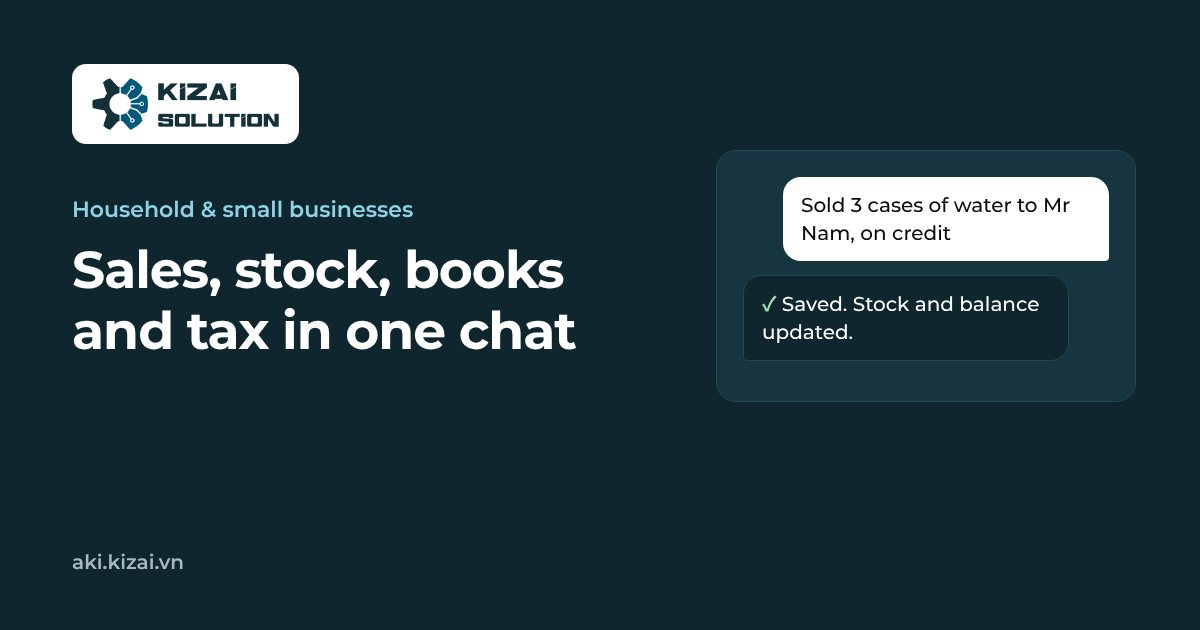
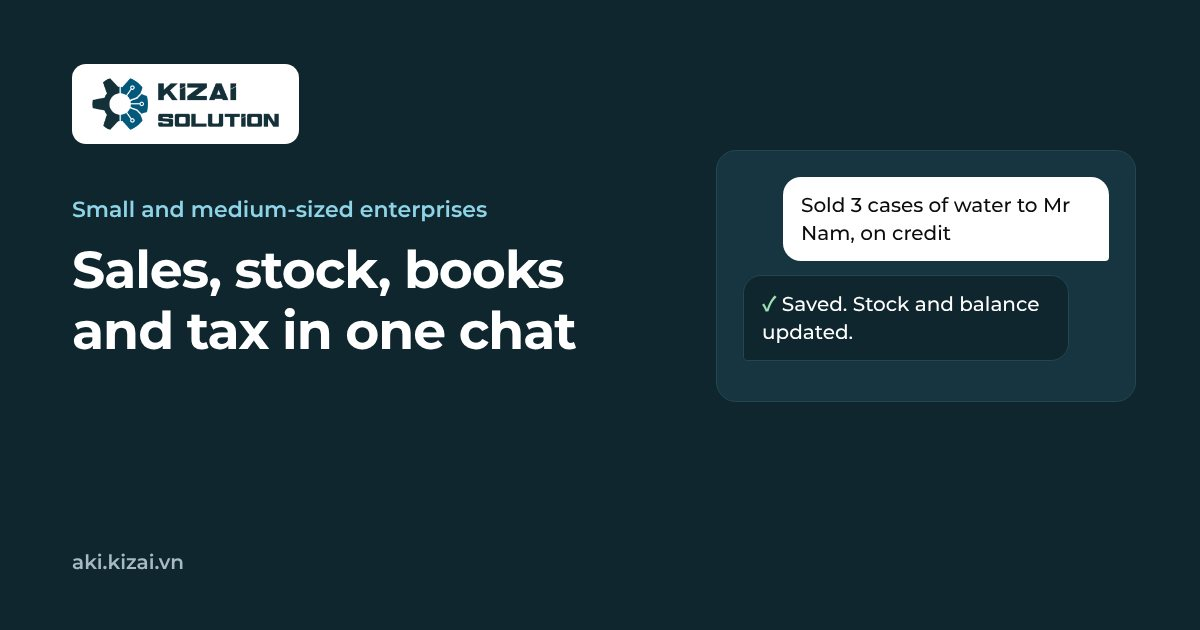
feat: retarget page to SMEs (/[locale]/doanh-nghiep-sme)
Claude-Session: https://claude.ai/code/session_01DjJstdf2PbC4y8FMKZ1xef

Changed region(s): [[0.0617, 0.3016, 0.4008, 0.3619]]

diff --git a/src/i18n/smb-content.ts b/src/i18n/smb-content.ts
@@ -1,12 +1,12 @@
 import type { Locale } from "./config";
 
 /**
- * Trang "Kizai AI cho hộ kinh doanh và doanh nghiệp nhỏ" (/[locale]/ho-kinh-doanh).
+ * Trang "Kizai AI cho doanh nghiệp vừa và nhỏ (SME)" (/[locale]/doanh-nghiep-sme).
  * Nội dung tự viết. Chỉ các việc anh Kiên xác nhận Kizai AI làm được (2026-11-12).
  * Không có giá, số liệu hiệu quả, tên khách hàng hay tên đối tác.
  */
 
-export const smbPath = "/ho-kinh-doanh";
+export const smbPath = "/doanh-nghiep-sme";
 
 export type SmbGroupId = "sales" | "purchase" | "stock" | "cash" | "tax" | "reports" | "grow";
 
@@ -49,14 +49,14 @@ export type SmbContent = {
 
 const vi: SmbContent = {
   seo: {
-    title: "Phần mềm AI bán hàng, kho, sổ sách và thuế cho hộ kinh doanh | Kizai AI",
+    title: "Phần mềm AI bán hàng, kho, kế toán và thuế cho doanh nghiệp SME | Kizai AI",
     description:
-      "Kizai AI ghi đơn bán, nhập hàng, kho, thu chi và lập tờ khai thuế hộ kinh doanh từ tin nhắn, giọng nói hoặc ảnh chụp. Sẵn sàng cho việc bỏ thuế khoán từ 2026.",
+      "Kizai AI cho doanh nghiệp vừa và nhỏ: ghi đơn bán, nhập hàng, kho, thu chi, hóa đơn điện tử và chuẩn bị số liệu thuế từ tin nhắn, giọng nói hoặc ảnh chụp.",
   },
-  nav: "Hộ kinh doanh",
-  breadcrumb: "Hộ kinh doanh & doanh nghiệp nhỏ",
+  nav: "Doanh nghiệp SME",
+  breadcrumb: "Doanh nghiệp vừa và nhỏ (SME)",
   hero: {
-    badge: "Kizai AI cho hộ kinh doanh và doanh nghiệp nhỏ",
+    badge: "Kizai AI cho doanh nghiệp vừa và nhỏ (SME)",
     h1: "Bán hàng, kho, sổ sách và thuế trong một khung chat",
     sub: "Nhắn một câu, nói một câu hoặc chụp một tấm ảnh. Kizai AI hiểu nghiệp vụ, hỏi lại cho chắc rồi mới ghi sổ. Anh chị lo buôn bán, phần giấy tờ để AI làm.",
     primary: "Đặt lịch demo",
@@ -72,16 +72,16 @@ const vi: SmbContent = {
     inputPlaceholder: "Nhắn cho Kizai AI…",
   },
   why: {
-    title: "Từ 2026, sổ sách không còn là việc làm cho có",
-    sub: "Hộ kinh doanh chuyển từ thuế khoán sang tự kê khai. Số liệu bán hàng hằng ngày trở thành căn cứ tính thuế.",
+    title: "Số liệu doanh nghiệp phải khớp từ đơn hàng đến tờ khai",
+    sub: "Quy định về hóa đơn và thuế ngày càng dựa trên dữ liệu thật. SME cần bán hàng, kho, quỹ và kế toán nói cùng một con số.",
     items: [
       {
-        title: "Bỏ thuế khoán",
-        text: "Theo Nghị quyết 68-NQ/TW, thuế khoán với hộ kinh doanh chấm dứt chậm nhất trong năm 2026.",
+        title: "Hộ kinh doanh lên doanh nghiệp",
+        text: "Nghị quyết 68-NQ/TW bỏ thuế khoán chậm nhất năm 2026 và khuyến khích hộ kinh doanh chuyển lên mô hình doanh nghiệp.",
       },
       {
-        title: "Kê khai theo doanh thu thật",
-        text: "Hộ kinh doanh tự kê khai, tự nộp. Doanh thu, chi phí và tồn kho cần ghi đầy đủ, khớp nhau.",
+        title: "Kê khai theo số liệu thật",
+        text: "Doanh thu, chi phí, công nợ và tồn kho phải ghi đầy đủ và khớp nhau để kê khai, quyết toán và làm việc với ngân hàng.",
       },
       {
         title: "Hóa đơn điện tử",
@@ -171,7 +171,7 @@ const vi: SmbContent = {
         id: "tax",
         label: "Cuối tháng và kỳ thuế",
         items: [
-          { title: "Sổ kế toán hộ kinh doanh", text: "Các mẫu sổ theo Thông tư 88/2021/TT-BTC được ghi dần mỗi ngày." },
+          { title: "Sổ sách ghi dần mỗi ngày", text: "Chứng từ bán, mua, kho, quỹ được ghi ngay khi phát sinh. Hộ kinh doanh có sẵn mẫu sổ theo Thông tư 88/2021/TT-BTC." },
           { title: "Tờ khai điền sẵn", text: "Số thuế tính theo doanh thu thực tế, anh chị kiểm tra và xác nhận." },
           { title: "Lịch thuế không bỏ lỡ", text: "Nhắc trước hạn khai và hạn nộp, kèm số tiền ước tính." },
           { title: "Lãi lỗ và dòng tiền", text: "So với tháng trước, xem lãi gộp từng món và tiền mặt còn lại." },
@@ -237,14 +237,14 @@ const vi: SmbContent = {
     items: [
       { q: "Có phải gõ lại toàn bộ danh sách hàng từ đầu không?", a: "Không. Gửi file Excel đang dùng, ảnh sổ ghi nợ hoặc vài hóa đơn gần đây, AI dựng danh mục hàng, khách, nhà cung cấp và số tồn ban đầu. Anh chị chỉ cần xem lại bản tóm tắt." },
       { q: "Tôi nói nhầm số lượng thì sao?", a: "Trước khi lưu, AI luôn đọc lại nội dung để anh chị kiểm tra. Đã lưu rồi vẫn sửa được, các sổ liên quan tự điều chỉnh theo." },
-      { q: "Kizai AI giúp gì khi bỏ thuế khoán?", a: "Sổ kế toán hộ kinh doanh theo Thông tư 88/2021/TT-BTC được ghi từ giao dịch thật mỗi ngày, tờ khai được điền sẵn từ chính số liệu đó, hóa đơn điện tử xuất ngay khi bán." },
+      { q: "Kizai AI giúp gì cho phần thuế?", a: "Hóa đơn điện tử xuất ngay khi bán, chứng từ được ghi từ giao dịch thật mỗi ngày, tờ khai được điền sẵn từ chính số liệu đó để anh chị hoặc kế toán kiểm tra. Hộ kinh doanh đang chuyển lên doanh nghiệp có sẵn mẫu sổ theo Thông tư 88/2021/TT-BTC." },
       { q: "Ai xem được số liệu của cửa hàng tôi?", a: "Dữ liệu thuộc về anh chị và chỉ dùng để phục vụ cửa hàng của anh chị. Kizai không bán dữ liệu cho bên thứ ba." },
       { q: "Khi mở thêm chi nhánh hoặc lên công ty thì sao?", a: "Nhiều điểm bán dùng chung một sổ. Khi cần nhân sự, mua hàng hay ERP đầy đủ, dữ liệu được nối tiếp sang các giải pháp KIZAI HRM, PMS, RPA và ERP." },
       { q: "Chi phí thế nào?", a: "Tùy quy mô và ngành. Để lại thông tin ở cuối trang, Kizai sẽ tư vấn gói phù hợp." },
     ],
   },
   homeBand: {
-    title: "Kizai AI cho hộ kinh doanh và doanh nghiệp nhỏ",
+    title: "Kizai AI cho doanh nghiệp vừa và nhỏ (SME)",
     text: "Bán hàng, kho, thu chi, hóa đơn điện tử và tờ khai thuế qua tin nhắn, giọng nói hoặc ảnh chụp.",
     link: "Xem giải pháp",
   },
@@ -252,14 +252,14 @@ const vi: SmbContent = {
 
 const ja: SmbContent = {
   seo: {
-    title: "個人事業主・小規模事業者向けAI：販売・在庫・帳簿・税務｜Kizai AI",
+    title: "中小企業（SME）向けAI：販売・在庫・会計・税務｜Kizai AI",
     description:
-      "Kizai AIはメッセージ、音声、写真から販売、仕入、在庫、入出金を記帳し、ベトナムの個人事業世帯向け税務申告書を作成します。2026年の定額課税廃止に対応。",
+      "中小企業向けKizai AI：メッセージ、音声、写真から販売、仕入、在庫、入出金、電子インボイスを処理し、税務用のデータを準備します。",
   },
-  nav: "個人事業主",
-  breadcrumb: "個人事業主・小規模事業者",
+  nav: "中小企業",
+  breadcrumb: "中小企業（SME）",
   hero: {
-    badge: "個人事業主・小規模事業者向けKizai AI",
+    badge: "中小企業（SME）向けKizai AI",
     h1: "販売、在庫、帳簿、税務をひとつのチャットで",
     sub: "メッセージを送る、話しかける、写真を撮る。Kizai AIが業務を理解し、内容を確認してから記帳します。お客様は商売に集中できます。",
     primary: "デモを予約",
@@ -275,11 +275,11 @@ const ja: SmbContent = {
     inputPlaceholder: "Kizai AIにメッセージ…",
   },
   why: {
-    title: "2026年、帳簿は「形だけ」では済まなくなる",
-    sub: "ベトナムの個人事業世帯は定額課税から自己申告へ移行します。日々の販売データが課税の根拠になります。",
+    title: "注文から申告書まで、数字が一致していること",
+    sub: "ベトナムのインボイスと税務の規定は、実際のデータに基づくものへと移っています。販売、在庫、資金、会計が同じ数字を示す必要があります。",
     items: [
-      { title: "定額課税の廃止", text: "決議68-NQ/TWにより、個人事業世帯への定額課税は遅くとも2026年中に廃止されます。" },
-      { title: "実際の売上で申告", text: "事業者が自ら申告・納付します。売上、費用、在庫を正しく記録し、整合させる必要があります。" },
+      { title: "個人事業から企業へ", text: "決議68-NQ/TWは遅くとも2026年に定額課税を廃止し、個人事業世帯の法人化を後押ししています。" },
+      { title: "実際の数字で申告", text: "売上、費用、債権債務、在庫を漏れなく整合させ、申告、決算、金融機関との取引に備える必要があります。" },
       { title: "電子インボイス", text: "販売時に規格に沿った電子インボイスを発行し、税務当局へデータを送信します。" },
     ],
     note: "規定は今後さらに細則が出る可能性があります。Kizaiは新しい通達に合わせて計算方法と様式を更新します。",
@@ -365,7 +365,7 @@ const ja: SmbContent = {
         id: "tax",
         label: "月末・申告時期",
         items: [
-          { title: "個人事業世帯の会計帳簿", text: "通達88/2021/TT-BTCの様式で毎日少しずつ記帳。" },
+          { title: "毎日少しずつ記帳", text: "販売、仕入、在庫、資金の証憑を発生時に記録。個人事業世帯には通達88/2021/TT-BTCの様式も用意。" },
           { title: "記入済みの申告書", text: "実際の売上から税額を計算。確認して承認するだけ。" },
           { title: "税務カレンダー", text: "申告・納付期限の前に、見込み税額とともに通知。" },
           { title: "損益と資金繰り", text: "前月比、商品別粗利、手元資金を確認。" },
@@ -431,14 +431,14 @@ const ja: SmbContent = {
     items: [
       { q: "商品リストを最初から入力し直す必要がありますか？", a: "いいえ。使用中のExcel、掛け帳の写真、最近の請求書を送ると、AIが商品、顧客、仕入先、初期在庫を作成します。要約を確認するだけです。" },
       { q: "数量を言い間違えたら？", a: "保存前にAIが必ず内容を読み上げます。保存後も修正でき、関連する帳簿は自動で調整されます。" },
-      { q: "定額課税の廃止にどう役立ちますか？", a: "通達88/2021/TT-BTCに沿った帳簿を実際の取引から毎日記帳し、そのデータで申告書を作成。販売時には電子インボイスを発行します。" },
+      { q: "税務ではどう役立ちますか？", a: "販売時に電子インボイスを発行し、実際の取引から毎日証憑を記録、そのデータで申告書を下書きしてご本人または会計担当が確認します。法人化する個人事業世帯向けに通達88/2021/TT-BTCの様式もあります。" },
       { q: "店の数字は誰が見られますか？", a: "データはお客様のものであり、お客様の事業のためだけに使われます。Kizaiが第三者にデータを販売することはありません。" },
       { q: "支店を増やしたり法人化したら？", a: "複数店舗でひとつの帳簿を共有できます。人事、購買、ERPが必要になれば、KIZAI HRM、PMS、RPA、ERPへデータを引き継げます。" },
       { q: "費用は？", a: "規模と業種によって異なります。ページ下部からお問い合わせいただければ、最適なプランをご案内します。" },
     ],
   },
   homeBand: {
-    title: "個人事業主・小規模事業者向けKizai AI",
+    title: "中小企業（SME）向けKizai AI",
     text: "販売、在庫、入出金、電子インボイス、税務申告をメッセージ・音声・写真で。",
     link: "詳しく見る",
   },
@@ -446,14 +446,14 @@ const ja: SmbContent = {
 
 const en: SmbContent = {
   seo: {
-    title: "AI Sales, Inventory, Bookkeeping and Tax for Small Businesses | Kizai AI",
+    title: "AI Sales, Inventory, Accounting and Tax for SMEs | Kizai AI",
     description:
-      "Kizai AI records sales, purchases, stock and cash from a message, a voice note or a photo, and prepares Vietnamese household-business tax returns. Ready for the end of presumptive tax in 2026.",
+      "Kizai AI for small and medium-sized enterprises: sales, purchasing, stock, cash, e-invoices and tax-ready figures from a message, a voice note or a photo.",
   },
-  nav: "Small business",
-  breadcrumb: "Household & small businesses",
+  nav: "SMEs",
+  breadcrumb: "Small and medium-sized enterprises (SMEs)",
   hero: {
-    badge: "Kizai AI for household and small businesses",
+    badge: "Kizai AI for SMEs",
     h1: "Sales, stock, books and tax in one chat",
     sub: "Send a message, say it out loud or snap a photo. Kizai AI understands the transaction, checks with you, then records it. You run the shop; the AI keeps the books.",
     primary: "Book a demo",
@@ -469,11 +469,11 @@ const en: SmbContent = {
     inputPlaceholder: "Message Kizai AI…",
   },
   why: {
-    title: "From 2026, the books have to be real",
-    sub: "Vietnamese household businesses move from presumptive tax to self-declaration. Daily sales records become the basis for tax.",
+    title: "Figures that match from order to tax return",
+    sub: "Vietnam's invoice and tax rules increasingly rely on real data. Sales, stock, cash and accounting need to show the same numbers.",
     items: [
-      { title: "Presumptive tax ends", text: "Under Resolution 68-NQ/TW, presumptive (lump-sum) tax for household businesses ends no later than 2026." },
-      { title: "Declare actual revenue", text: "Businesses declare and pay on their own. Revenue, costs and stock must be complete and consistent." },
+      { title: "From household business to company", text: "Resolution 68-NQ/TW ends presumptive tax by 2026 at the latest and encourages household businesses to become companies." },
+      { title: "Declare from real figures", text: "Revenue, costs, receivables, payables and stock must be complete and consistent for filing, year-end and dealing with banks." },
       { title: "E-invoices", text: "Sales need compliant e-invoices, with data sent to the tax authority." },
     ],
     note: "Further guidance may follow. Kizai updates its calculations and forms as new rules are issued.",
@@ -559,7 +559,7 @@ const en: SmbContent = {
         id: "tax",
         label: "Month end and tax time",
         items: [
-          { title: "Household-business ledgers", text: "The Circular 88/2021/TT-BTC ledgers, filled in a little every day." },
+          { title: "Books kept as you go", text: "Sales, purchase, stock and cash records are posted as they happen. Circular 88/2021/TT-BTC templates are available for household businesses." },
           { title: "Pre-filled return", text: "Tax calculated on actual revenue; you check and confirm." },
           { title: "Tax calendar", text: "Reminders before filing and payment deadlines, with an estimate." },
           { title: "Profit and cash flow", text: "Month-on-month, margin per item and cash on hand." },
@@ -625,14 +625,14 @@ const en: SmbContent = {
     items: [
       { q: "Do I have to re-enter my whole product list?", a: "No. Send the Excel file you use, photos of your credit book or a few recent invoices; the AI builds products, customers, suppliers and opening stock. You just review the summary." },
       { q: "What if I say the wrong quantity?", a: "Before saving, the AI always reads the transaction back for you to check. Saved entries can still be corrected, and related ledgers adjust automatically." },
-      { q: "How does Kizai AI help as presumptive tax ends?", a: "Circular 88/2021/TT-BTC household-business ledgers are kept daily from real transactions, the return is pre-filled from that data, and e-invoices are issued at the point of sale." },
+      { q: "How does Kizai AI help with tax?", a: "E-invoices are issued at the point of sale, records are posted daily from real transactions, and returns are drafted from that data for you or your accountant to check. Household businesses moving to a company structure also get Circular 88/2021/TT-BTC templates." },
       { q: "Who can see my shop's figures?", a: "Your data belongs to you and is used only to serve your business. Kizai does not sell data to third parties." },
       { q: "What happens when I open more branches or incorporate?", a: "Several outlets can share one set of books. When you need HR, purchasing or a full ERP, your data carries over to KIZAI HRM, PMS, RPA and ERP." },
       { q: "How much does it cost?", a: "It depends on size and industry. Leave your details at the bottom of the page and Kizai will recommend a suitable plan." },
     ],
   },
   homeBand: {
-    title: "Kizai AI for household and small businesses",
+    title: "Kizai AI for SMEs",
     text: "Sales, stock, cash, e-invoices and tax returns from a message, a voice note or a photo.",
     link: "See the solution",
   },

diff --git a/src/i18n/dictionaries/vi.ts b/src/i18n/dictionaries/vi.ts
@@ -16,7 +16,7 @@ const vi = {
   nav: {
     links: [
       { href: "#modules", label: "Sản phẩm" },
-      { href: "/ho-kinh-doanh", label: "Hộ kinh doanh" },
+      { href: "/doanh-nghiep-sme", label: "Doanh nghiệp SME" },
       { href: "#platform", label: "Nền tảng" },
       { href: "#customers", label: "Khách hàng" },
       { href: "#about", label: "Về Kizai" },
@@ -425,7 +425,7 @@ const vi = {
     cadHint: "Ví dụ: SolidWorks, Teamcenter",
     choose: "Chọn một mục",
     sizes: ["1–30", "30–100", "100–500", "Trên 500"],
-    needs: ["Tìm kiếm & tái sử dụng bản vẽ", "Tự động duyệt thiết kế", "Quản lý RFQ & báo giá", "Chuẩn hóa linh kiện", "Sản xuất & bảo trì", "Bán hàng, kho, sổ sách & thuế (hộ kinh doanh)"],
+    needs: ["Tìm kiếm & tái sử dụng bản vẽ", "Tự động duyệt thiết kế", "Quản lý RFQ & báo giá", "Chuẩn hóa linh kiện", "Sản xuất & bảo trì", "Bán hàng, kho, kế toán & thuế (doanh nghiệp SME)"],
     errors: {
       name: "Nhập họ và tên của bạn.",
       email: "Nhập email công việc, ví dụ ten@congty.vn.",

diff --git a/src/i18n/dictionaries/ja.ts b/src/i18n/dictionaries/ja.ts
@@ -18,7 +18,7 @@ const ja: Dictionary = {
   nav: {
     links: [
       { href: "#modules", label: "製品" },
-      { href: "/ho-kinh-doanh", label: "個人事業主" },
+      { href: "/doanh-nghiep-sme", label: "中小企業" },
       { href: "#platform", label: "プラットフォーム" },
       { href: "#customers", label: "導入事例" },
       { href: "#about", label: "会社情報" },
@@ -401,7 +401,7 @@ const ja: Dictionary = {
     cadHint: "例：SolidWorks、Teamcenter",
     choose: "選択してください",
     sizes: ["1–30名", "30–100名", "100–500名", "500名以上"],
-    needs: ["図面検索と再利用", "設計レビューの自動化", "RFQ・見積管理", "部品の標準化", "製造・保全", "販売・在庫・帳簿・税務（個人事業主）"],
+    needs: ["図面検索と再利用", "設計レビューの自動化", "RFQ・見積管理", "部品の標準化", "製造・保全", "販売・在庫・会計・税務（中小企業）"],
     errors: {
       name: "氏名を入力してください。",
       email: "会社のメールアドレスを入力してください（例：name@company.co.jp）。",

diff --git a/src/i18n/dictionaries/en.ts b/src/i18n/dictionaries/en.ts
@@ -18,7 +18,7 @@ const en: Dictionary = {
   nav: {
     links: [
       { href: "#modules", label: "Product" },
-      { href: "/ho-kinh-doanh", label: "Small business" },
+      { href: "/doanh-nghiep-sme", label: "SMEs" },
       { href: "#platform", label: "Platform" },
       { href: "#customers", label: "Customers" },
       { href: "#about", label: "About" },
@@ -401,7 +401,7 @@ const en: Dictionary = {
     cadHint: "For example: SolidWorks, Teamcenter",
     choose: "Choose one",
     sizes: ["1–30", "30–100", "100–500", "Over 500"],
-    needs: ["Drawing search & reuse", "Automated design review", "RFQ & quote management", "Part standardization", "Production & maintenance", "Sales, stock, books & tax (small business)"],
+    needs: ["Drawing search & reuse", "Automated design review", "RFQ & quote management", "Part standardization", "Production & maintenance", "Sales, stock, accounting & tax (SMEs)"],
     errors: {
       name: "Enter your full name.",
       email: "Enter your work email, for example name@company.com.",

diff --git a/src/middleware.ts b/src/middleware.ts
@@ -24,7 +24,7 @@ export function middleware(request: NextRequest) {
   const url = request.nextUrl.clone();
   url.pathname = `/${preferredLocale(request)}${pathname === "/" ? "" : pathname}`;
   // Chỉ chuyển hướng các đường dẫn có thật (trang chủ, /modules…). Đường dẫn lạ trả 404 ngay, không qua bước chuyển hướng.
-  if (pathname === "/" || pathname === "/modules" || pathname.startsWith("/modules/") || pathname === "/ho-kinh-doanh") {
+  if (pathname === "/" || pathname === "/modules" || pathname.startsWith("/modules/") || pathname === "/doanh-nghiep-sme") {
     return NextResponse.redirect(url);
   }
   return NextResponse.rewrite(url);

diff --git a/src/app/llms.txt/route.ts b/src/app/llms.txt/route.ts
@@ -23,7 +23,7 @@ export function GET() {
     "",
     ...moduleSlugs.map((slug, i) => `- [${en.modules.items[i].name}](${site.url}/en/modules/${slug}): ${s.modules[slug].description}`),
     "",
-    "## For household and small businesses",
+    "## For SMEs (small and medium-sized enterprises)",
     "",
     `- [${smbContent.en.hero.h1}](${site.url}/en${smbPath}): ${smbContent.en.seo.description}`,
     "",
